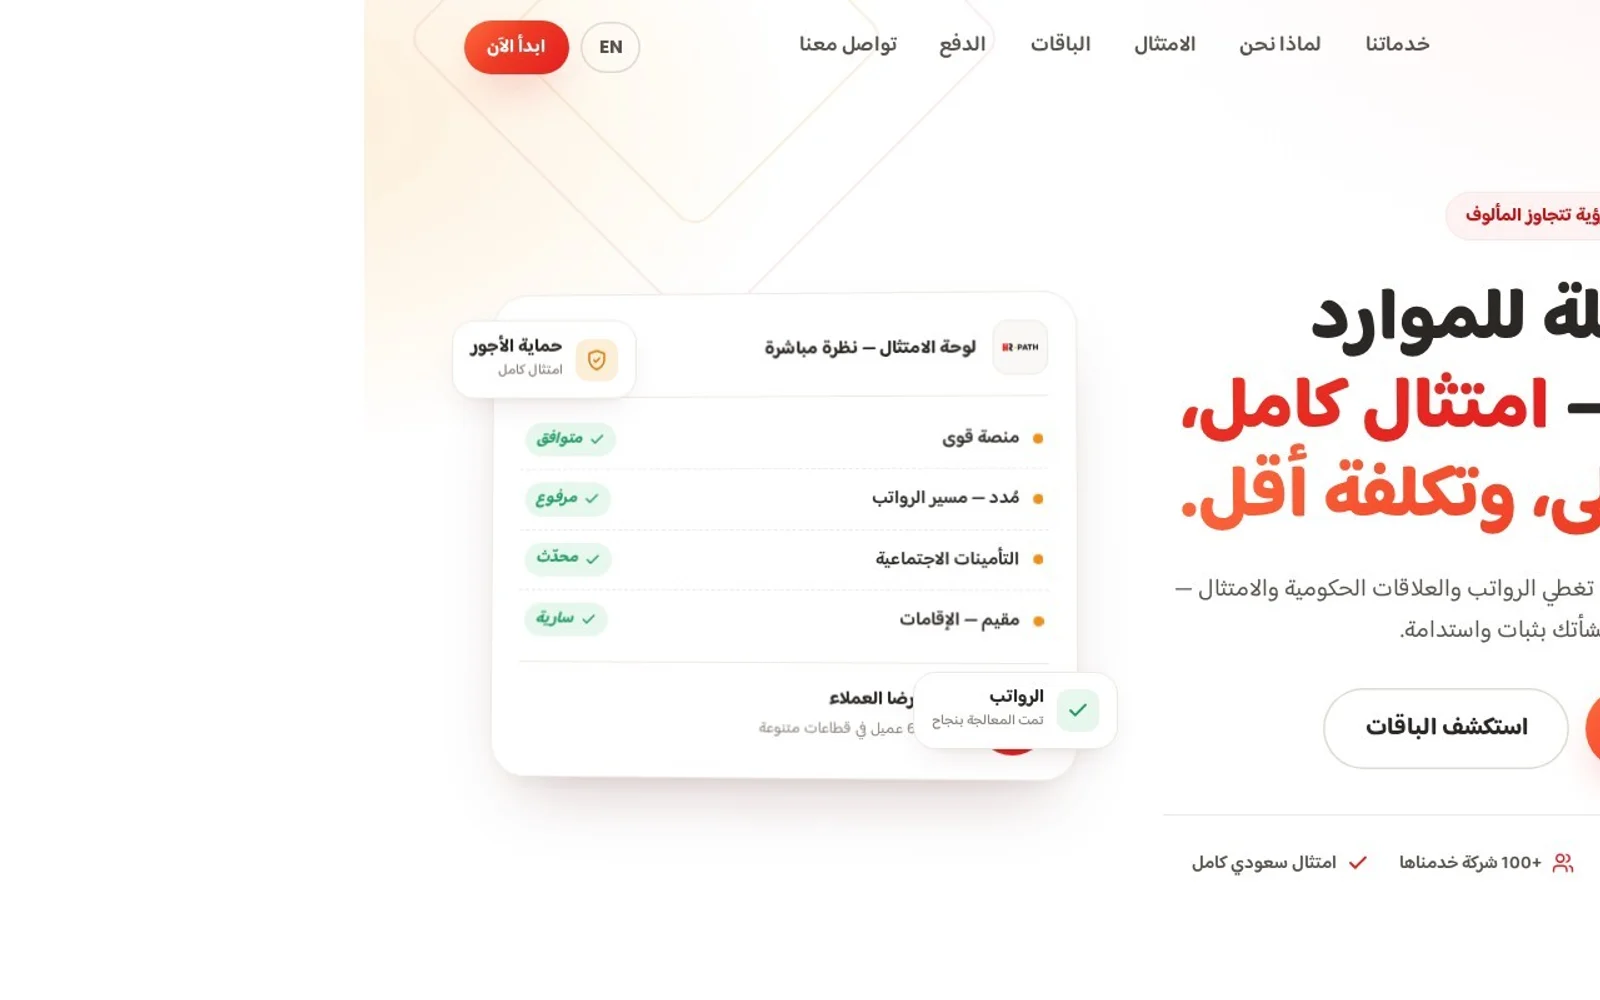
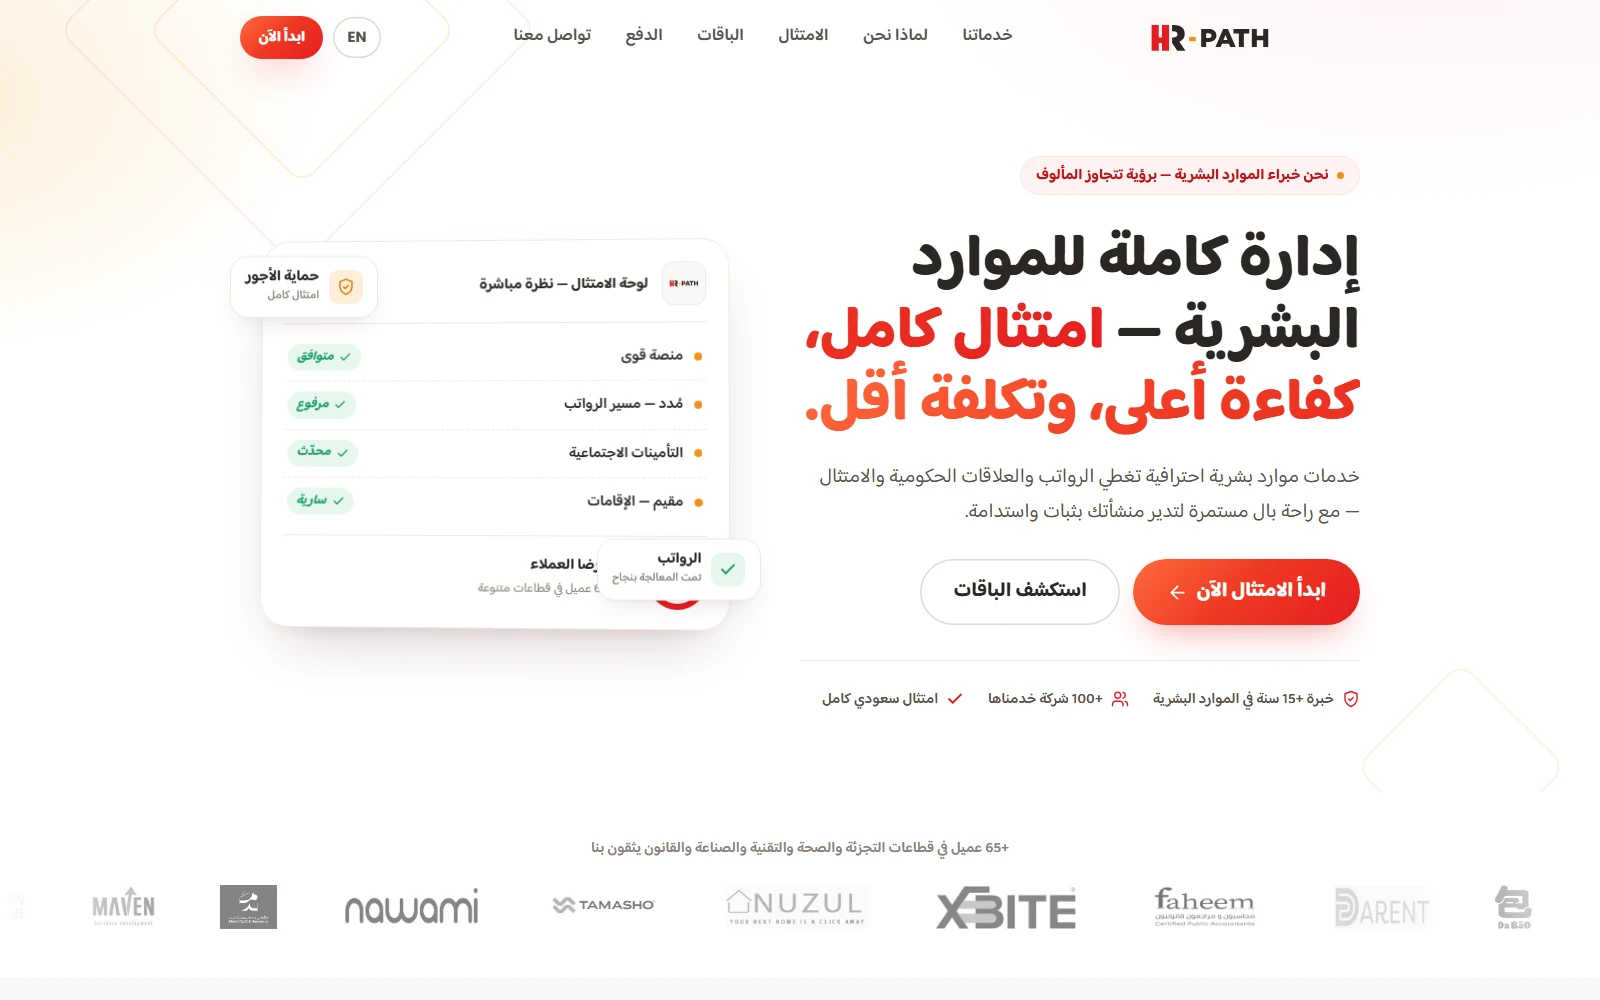
Board 04 to 4x3, Type Design as an auto-loop strip, fix two screenshots
Board 04 is now 4 across by 3 down, same twelve frames.

Type Design: the copy claimed the lettering was drawn by hand, then drawn
from scratch. It was produced with AI tooling, so the section now says so.
The grid became a continuous auto-scrolling loop in two rows: the pieces have
very different proportions and a fixed grid left them at odd sizes with
nothing lining up, while in a strip each keeps its natural width on a shared
baseline. It pauses on hover so a piece can still be opened, and honours
prefers-reduced-motion.

Screenshots: hrpath and tilal were both genuinely cut. hrpath lost its
headline on both sides, and tilal was captured at 2000x1070, so the cards
16:10 crop shaved the logo and the headline off the edges. Both re-shot at
1600x1000 through the CDP capture; all nine are now 1.60 and uncropped.
reshoot-web.mjs takes slugs as arguments so single sites can be redone.

diff --git a/components/TypeDesign.tsx b/components/TypeDesign.tsx
@@ -8,14 +8,18 @@ import { Media } from "@/components/ui/Media";
 import { withBase } from "@/lib/base";
 import { useLang } from "@/lib/i18n";
 
-// Custom lettering, Arabic and Latin.
+// Custom Arabic and Latin lettering, produced with AI tooling and finished by
+// hand-off into logotypes and campaign headlines.
 //
-// Each piece ships as two cuts on transparent alpha: a white one for dark mode
-// and a black one for light. They sit straight on the page background — no tile
-// behind them — so the letterforms read as artwork rather than as thumbnails.
+// Presented as a continuous auto-scrolling loop rather than a grid: the pieces
+// have very different proportions, so a fixed grid left them floating at odd
+// sizes with nothing lining up. In a strip they each keep their natural width
+// and share one baseline. Each piece ships as two cuts on transparent alpha —
+// white for dark mode, black for light — so the letterforms sit straight on
+// the page with no tile behind them.
 //
-// Pieces 07 and 08 only exist as one full-colour cut, so those keep a dark
-// plate in both themes; their white elements would vanish on the light page.
+// Pieces 07 and 08 exist only as a single full-colour cut whose white elements
+// would vanish on the light theme, so those two keep a fixed dark plate.
 const PLATED = new Set([7, 8]);
 
 const pieces = Array.from({ length: 8 }, (_, i) => {
@@ -27,6 +31,86 @@ const pieces = Array.from({ length: 8 }, (_, i) => {
     plated: PLATED.has(i + 1),
   };
 });
+
+function Piece({
+  piece,
+  index,
+  onOpen,
+  label,
+}: {
+  piece: (typeof pieces)[number];
+  index: number;
+  onOpen: (src: string) => void;
+  label: string;
+}) {
+  return (
+    <button
+      type="button"
+      onClick={() => onOpen(piece.dark)}
+      aria-label={`${label} ${index + 1}`}
+      className={`group relative h-32 w-56 shrink-0 rounded-xl px-6 py-4 transition-transform duration-500 ease-cinema hover:scale-[1.05] sm:h-40 sm:w-72 sm:px-8 sm:py-5 ${
+        piece.plated ? "bg-[#100F0D]" : ""
+      }`}
+    >
+      {/* white cut, dark theme */}
+      <span className="absolute inset-0 hidden p-5 dark:block sm:p-7">
+        <span className="relative block h-full w-full">
+          <Media
+            src={piece.dark}
+            alt={`${label} ${index + 1}`}
+            fill
+            sizes="288px"
+            className="object-contain"
+          />
+        </span>
+      </span>
+      {/* black cut, light theme */}
+      <span className="absolute inset-0 block p-5 dark:hidden sm:p-7">
+        <span className="relative block h-full w-full">
+          <Media
+            src={piece.plated ? piece.dark : piece.light}
+            alt={`${label} ${index + 1}`}
+            fill
+            sizes="288px"
+            className="object-contain"
+          />
+        </span>
+      </span>
+    </button>
+  );
+}
+
+function Row({
+  onOpen,
+  label,
+  reverse,
+}: {
+  onOpen: (src: string) => void;
+  label: string;
+  reverse?: boolean;
+}) {
+  // the set is rendered twice so the -50% keyframe lands on a seamless join
+  const track = [...pieces, ...pieces];
+  return (
+    <div className="flex w-max">
+      <div
+        className={`flex w-max items-center gap-6 pe-6 sm:gap-10 sm:pe-10 ${
+          reverse ? "animate-marquee-rev" : "animate-marquee"
+        } motion-reduce:animate-none group-hover/strip:[animation-play-state:paused]`}
+      >
+        {track.map((p, i) => (
+          <Piece
+            key={`${p.id}-${i}`}
+            piece={p}
+            index={i % pieces.length}
+            onOpen={onOpen}
+            label={label}
+          />
+        ))}
+      </div>
+    </div>
+  );
+}
 
 export default function TypeDesign() {
   const { t } = useLang();
@@ -44,86 +128,35 @@ export default function TypeDesign() {
   }, [open]);
 
   return (
-    <section
-      id="type"
-      className="container-edge mx-auto max-w-edge scroll-mt-24 section-y"
-    >
-      <div className="flex flex-col gap-6 md:flex-row md:items-end md:justify-between">
-        <div>
-          <Reveal>
-            <SectionLabel>{t.type.label}</SectionLabel>
-          </Reveal>
-          <Reveal delay={0.05}>
-            <h2 className="mt-6 max-w-2xl text-balance text-4xl font-semibold leading-[1.05] tracking-tight text-bone-50 md:text-6xl">
-              {t.type.h2a}{" "}
-              <span className="font-serif font-normal italic text-mint">
-                {t.type.h2i}
-              </span>
-              {t.type.h2b}
-            </h2>
+    <section id="type" className="scroll-mt-24 section-y">
+      <div className="container-edge mx-auto max-w-edge">
+        <div className="flex flex-col gap-6 md:flex-row md:items-end md:justify-between">
+          <div>
+            <Reveal>
+              <SectionLabel>{t.type.label}</SectionLabel>
+            </Reveal>
+            <Reveal delay={0.05}>
+              <h2 className="mt-6 max-w-2xl text-balance text-4xl font-semibold leading-[1.05] tracking-tight text-bone-50 md:text-6xl">
+                {t.type.h2a}{" "}
+                <span className="font-serif font-normal italic text-mint">
+                  {t.type.h2i}
+                </span>
+                {t.type.h2b}
+              </h2>
+            </Reveal>
+          </div>
+          <Reveal delay={0.1}>
+            <p className="max-w-xs text-sm leading-relaxed text-bone-400">
+              {t.type.note}
+            </p>
           </Reveal>
         </div>
-        <Reveal delay={0.1}>
-          <p className="max-w-xs text-sm leading-relaxed text-bone-400">
-            {t.type.note}
-          </p>
-        </Reveal>
       </div>
 
-      {/* Laid out like a type specimen sheet: a hairline lattice, one piece per
-          cell, plenty of room around the letterforms.
-          The lattice comes from a 1px grid gap over a faint line colour with
-          cells painted in the page colour — so the rules read as rules and the
-          artwork still sits on the page, with no tile behind it in either
-          theme. An earlier version floated the pieces in a plain gapped grid;
-          because they have very different proportions, nothing lined up. */}
-      <div className="mt-10 grid grid-cols-2 gap-px overflow-hidden rounded-2xl bg-line/12 sm:grid-cols-3 lg:grid-cols-4">
-        {pieces.map((p, i) => (
-          <button
-            key={p.id}
-            type="button"
-            onClick={() => setOpen(p.dark)}
-            aria-label={`${t.type.label} ${i + 1} — ${t.master.expand}`}
-            className={`group relative aspect-[5/4] p-8 transition-colors duration-500 md:p-11 ${
-              p.plated
-                ? "bg-[#100F0D]"
-                : "bg-ink-900 hover:bg-ink-800"
-            }`}
-          >
-            <span
-              className={`absolute left-4 top-4 font-serif text-xs italic transition-colors duration-300 group-hover:text-mint ${
-                p.plated ? "text-white/35" : "text-bone-500"
-              }`}
-            >
-              {p.id}
-            </span>
-
-            {/* the artwork sits inside the padded cell at ~78% width, so the
-                letterforms read as specimens rather than filling the tile */}
-            <span className="relative mx-auto block h-full w-[78%] transition-transform duration-700 ease-cinema group-hover:scale-[1.06]">
-              {/* white cut, dark theme */}
-              <span className="absolute inset-0 hidden dark:block">
-                <Media
-                  src={p.dark}
-                  alt={`${t.type.label} ${i + 1}`}
-                  fill
-                  sizes="(max-width: 640px) 46vw, (max-width: 1024px) 30vw, 21vw"
-                  className="object-contain"
-                />
-              </span>
-              {/* black cut, light theme */}
-              <span className="absolute inset-0 block dark:hidden">
-                <Media
-                  src={p.plated ? p.dark : p.light}
-                  alt={`${t.type.label} ${i + 1}`}
-                  fill
-                  sizes="(max-width: 640px) 46vw, (max-width: 1024px) 30vw, 21vw"
-                  className="object-contain"
-                />
-              </span>
-            </span>
-          </button>
-        ))}
+      {/* full-bleed strip; pauses on hover so a piece can be opened */}
+      <div className="group/strip mt-12 flex flex-col gap-6 overflow-hidden sm:gap-10">
+        <Row onOpen={setOpen} label={t.type.label} />
+        <Row onOpen={setOpen} label={t.type.label} reverse />
       </div>
 
       <AnimatePresence>

diff --git a/lib/dict.ts b/lib/dict.ts
@@ -158,10 +158,10 @@ const en = {
   },
   type: {
     label: "Type Design",
-    h2a: "Letters drawn",
-    h2i: "from scratch",
+    h2a: "Letters shaped",
+    h2i: "with AI",
     h2b: ".",
-    note: "Custom Arabic and Latin lettering, logotypes, campaign headlines and wordmarks built letter by letter.",
+    note: "Custom Arabic and Latin lettering produced with AI tooling, then art-directed and finished into logotypes, campaign headlines and wordmarks.",
   },
   web: {
     label: "Vibe Coding",
@@ -604,10 +604,10 @@ const ar: typeof en = {
   },
   type: {
     label: "تصميم حروف",
-    h2a: "حروفٌ تُرسَم",
-    h2i: "من الصفر",
+    h2a: "حروفٌ تتشكّل",
+    h2i: "بالذكاء الاصطناعي",
     h2b: ".",
-    note: "حروف عربية ولاتينية مخصّصة، لوجوتايبات وعناوين حملات وكلمات مرسومة حرفًا حرفًا.",
+    note: "حروف عربية ولاتينية مخصّصة أُنتجت بأدوات الذكاء الاصطناعي، ثم أُخرجت فنيًا وأُنهيت كلوجوتايبات وعناوين حملات وكلمات.",
   },
   web: {
     label: "فايب كودينج",

diff --git a/components/Storyboards.tsx b/components/Storyboards.tsx
@@ -12,7 +12,7 @@ import { withBase } from "@/lib/base";
 // Storyboards — the frame-by-frame plan behind the films. Wide boards, shown
 // full width with a lightbox, because the panels carry readable detail.
 // Board 02 leads — its frames are the stronger opener — then 01, then 03.
-// 04 is a 3-across x 4-down matrix built from the film's scene frames
+// 04 is a 4-across x 3-down matrix built from the film's scene frames
 // (scripts/build-storyboard-04.mjs).
 const boards = ["02", "01", "03", "04"].map(
   (n) => `/work/storyboards/${n}.webp`
